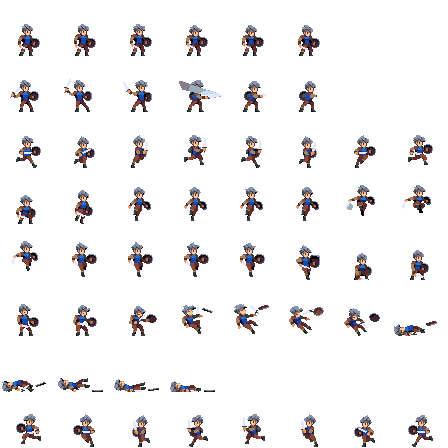
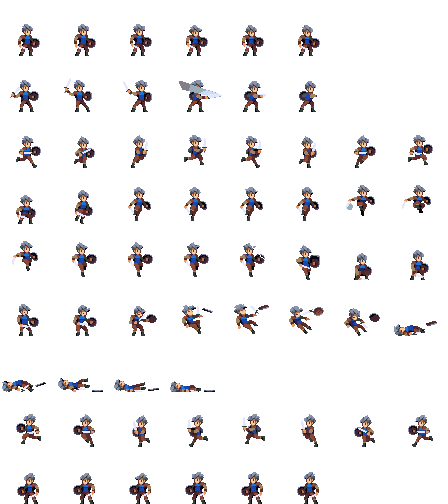
Dev5 made idle animation go both left and right

diff --git a/main.go b/main.go
@@ -39,6 +39,7 @@ var (
 
 	// player animation
 	playerRunningFrame = -1
+	playerLastDir      = 0
 
 	frameCountPerSec = 0
 )
@@ -60,6 +61,9 @@ func input() {
 	playerDir = int(rl.Clamp(float32(playerDir), -1, 1))
 	if rl.IsKeyPressed(rl.KeyL) {
 		collidingWithFloor = !collidingWithFloor
+	}
+	if playerDir == -1 || playerDir == 1 {
+		playerLastDir = playerDir
 	}
 }
 
@@ -85,11 +89,18 @@ func update() {
 
 	// player controls
 
+	// player idle animaiton
 	if frameCountPerSec%5 == 0 {
-		playerSrc.Y = 0
+		if playerLastDir == -1 {
+			playerSrc.Y = 8 * 56
+		} else if playerLastDir == 1 {
+			playerSrc.Y = 0
+		} else if playerLastDir == 0 {
+			playerSrc.Y = 0
+		}
 		playerSrc.X = float32(56 * (frameCountPerSec / 10))
-
 	}
+	// player moving & running animation
 	if playerMoving {
 		if playerDir == -1 {
 			fmt.Println("left")
